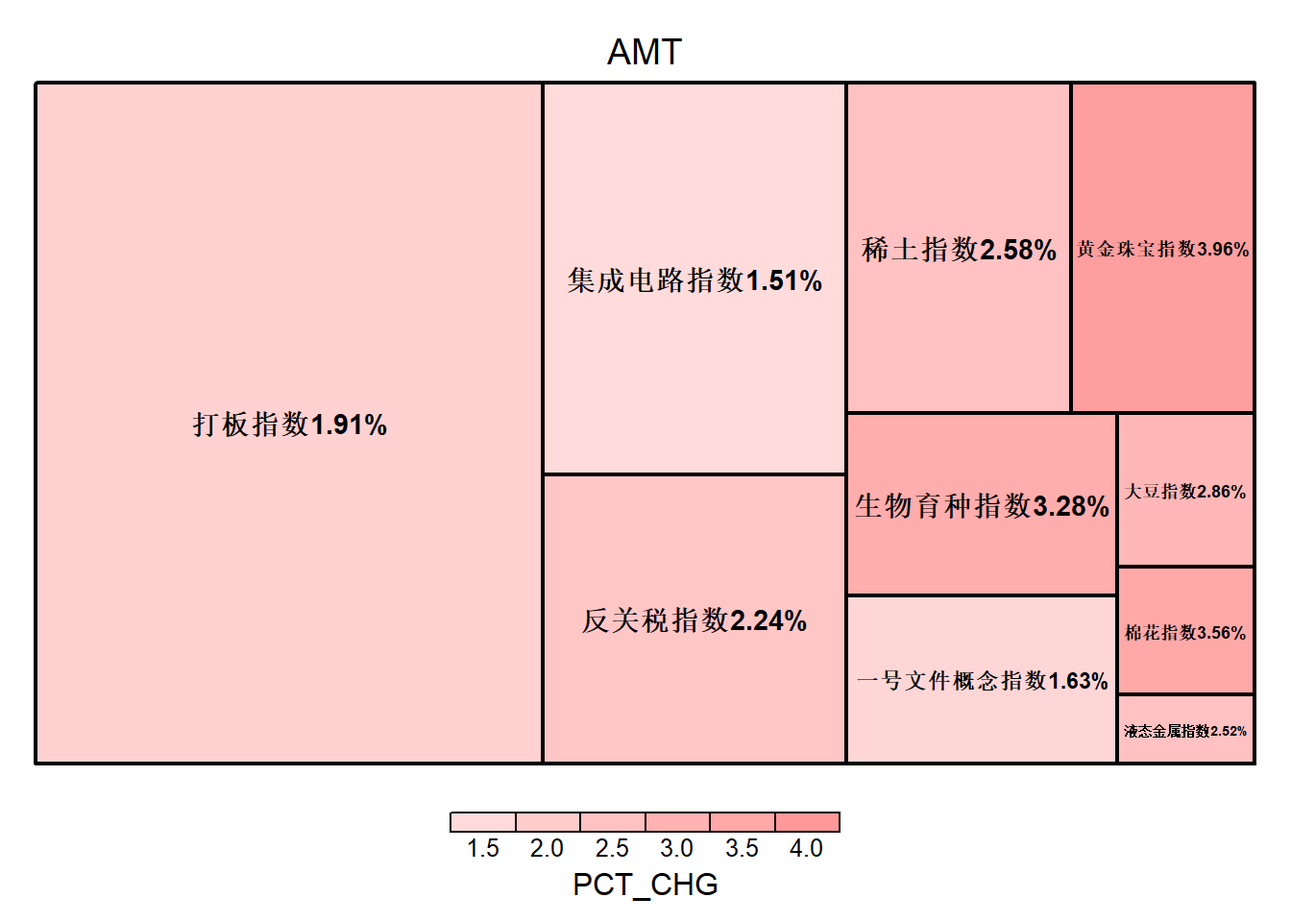
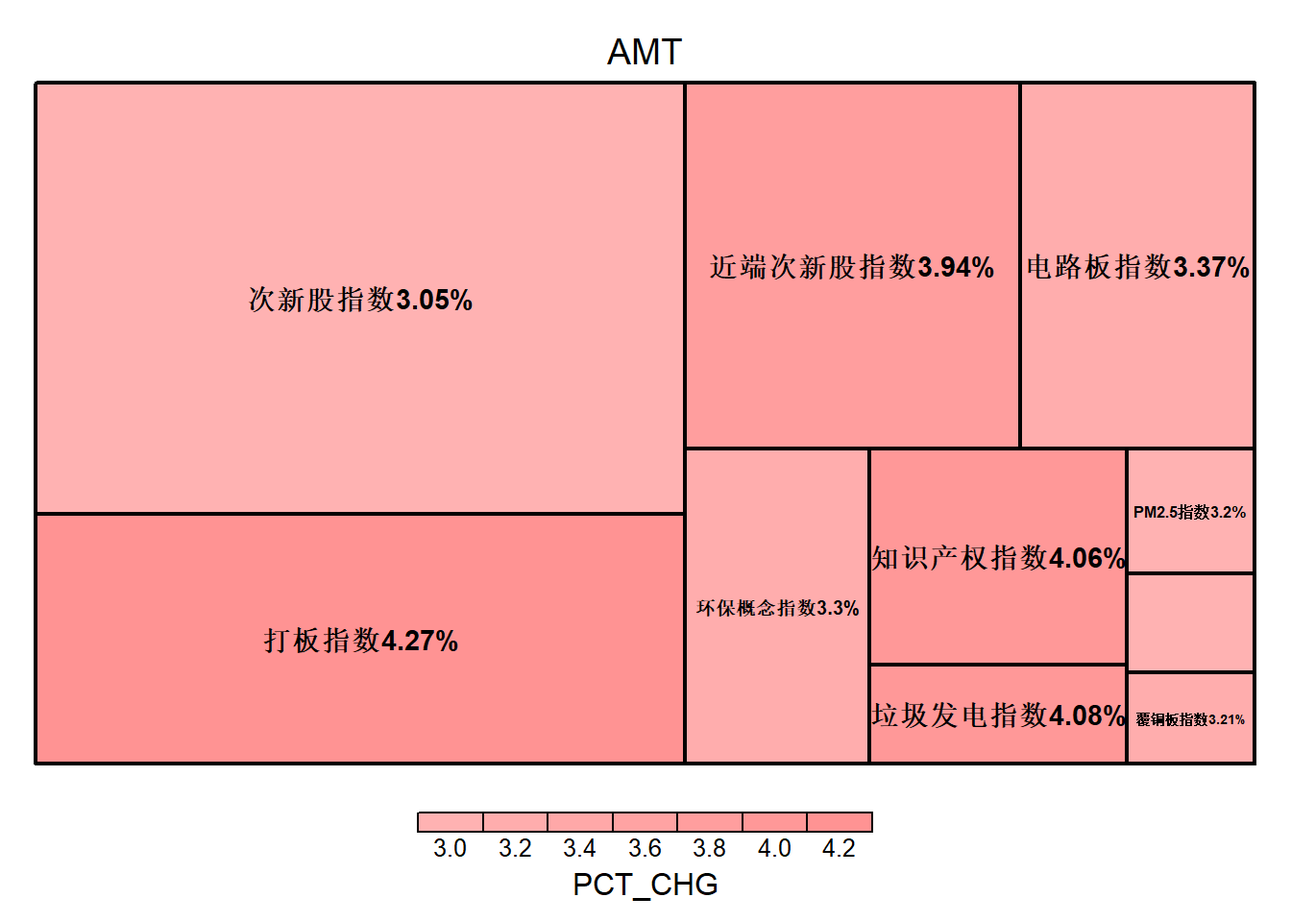
5

diff --git a/market_ashare_files/figure-html/widgets/widget_unnamed-chunk-7.html b/market_ashare_files/figure-html/widgets/widget_unnamed-chunk-7.html
@@ -49,12 +49,12 @@
 </head>
 <body style="background-color:white;">
 <div id="htmlwidget_container">
-  <div id="htmlwidget-326e6cdfa078d3f513f1" style="width:100%;height:650px;" class="highchart html-widget"></div>
+  <div id="htmlwidget-c4e797ac4c6777d631b6" style="width:100%;height:650px;" class="highchart html-widget"></div>
   <script>HTMLWidgets.pymChild = new pym.Child();HTMLWidgets.addPostRenderHandler(function(){
                                 setTimeout(function(){HTMLWidgets.pymChild.sendHeight();},100);
                             });</script>
 </div>
-<script type="application/json" data-for="htmlwidget-326e6cdfa078d3f513f1">{"x":{"hc_opts":{"title":{"text":"行业涨跌幅"},"yAxis":{"title":{"text":null}},"credits":{"enabled":true,"text":"Smartashare.com","href":"http://www.smartashare.com"},"exporting":{"enabled":true},"plotOptions":{"series":{"label":{"enabled":false},"turboThreshold":0},"treemap":{"layoutAlgorithm":"squarified"}},"xAxis":{"categories":["有色金属(中信)","餐饮旅游(中信)","通信(中信)","银行(中信)","建材(中信)","建筑(中信)","农林牧渔(中信)","机械(中信)","煤炭(中信)","电力及公用事业(中信)","医药(中信)","电子元器件(中信)","国防军工(中信)","石油石化(中信)","钢铁(中信)","商贸零售(中信)","交通运输(中信)","房地产(中信)","传媒(中信)","纺织服装(中信)","综合(中信)","计算机(中信)","汽车(中信)","食品饮料(中信)","家电(中信)","基础化工(中信)","电力设备(中信)","非银行金融(中信)","轻工制造(中信)"]},"subtitle":{"text":"更新日期:2019-06-12"},"series":[{"group":"group","data":[{"行业板块":"CI005003.WI","板块名称":"有色金属(中信)","成交额(亿元)":508.91,"成交量(亿)":52.74,"涨跌幅":1.65,"PE_TTM":128.92,"PB_LF":2.17,"y":1.65},{"行业板块":"CI005015.WI","板块名称":"餐饮旅游(中信)","成交额(亿元)":15.22,"成交量(亿)":1.13,"涨跌幅":-0.02,"PE_TTM":29.95,"PB_LF":3.46,"y":-0.02},{"行业板块":"CI005026.WI","板块名称":"通信(中信)","成交额(亿元)":432.19,"成交量(亿)":35.82,"涨跌幅":-0.05,"PE_TTM":53.48,"PB_LF":2.85,"y":-0.05},{"行业板块":"CI005021.WI","板块名称":"银行(中信)","成交额(亿元)":107.97,"成交量(亿)":14.22,"涨跌幅":-0.13,"PE_TTM":6.87,"PB_LF":0.86,"y":-0.13},{"行业板块":"CI005008.WI","板块名称":"建材(中信)","成交额(亿元)":134,"成交量(亿)":13.11,"涨跌幅":-0.15,"PE_TTM":12.14,"PB_LF":2.1,"y":-0.15},{"行业板块":"CI005007.WI","板块名称":"建筑(中信)","成交额(亿元)":131.93,"成交量(亿)":17.42,"涨跌幅":-0.19,"PE_TTM":10.98,"PB_LF":1.21,"y":-0.19},{"行业板块":"CI005020.WI","板块名称":"农林牧渔(中信)","成交额(亿元)":284.18,"成交量(亿)":29.32,"涨跌幅":-0.35,"PE_TTM":170.89,"PB_LF":3.86,"y":-0.35},{"行业板块":"CI005010.WI","板块名称":"机械(中信)","成交额(亿元)":233.58,"成交量(亿)":28.08,"涨跌幅":-0.39,"PE_TTM":70.76,"PB_LF":2.15,"y":-0.39},{"行业板块":"CI005002.WI","板块名称":"煤炭(中信)","成交额(亿元)":47.05,"成交量(亿)":7.22,"涨跌幅":-0.41,"PE_TTM":9.81,"PB_LF":1.1,"y":-0.41},{"行业板块":"CI005004.WI","板块名称":"电力及公用事业(中信)","成交额(亿元)":111.21,"成交量(亿)":18.5,"涨跌幅":-0.42,"PE_TTM":23.69,"PB_LF":1.61,"y":-0.42},{"行业板块":"CI005018.WI","板块名称":"医药(中信)","成交额(亿元)":220.77,"成交量(亿)":19.9,"涨跌幅":-0.49,"PE_TTM":33.89,"PB_LF":3.43,"y":-0.49},{"行业板块":"CI005025.WI","板块名称":"电子元器件(中信)","成交额(亿元)":579.8,"成交量(亿)":55.25,"涨跌幅":-0.5,"PE_TTM":52.05,"PB_LF":2.9,"y":-0.5},{"行业板块":"CI005012.WI","板块名称":"国防军工(中信)","成交额(亿元)":66.52,"成交量(亿)":5.32,"涨跌幅":-0.52,"PE_TTM":56.78,"PB_LF":2.41,"y":-0.52},{"行业板块":"CI005001.WI","板块名称":"石油石化(中信)","成交额(亿元)":49.56,"成交量(亿)":7.15,"涨跌幅":-0.58,"PE_TTM":19.07,"PB_LF":1.14,"y":-0.58},{"行业板块":"CI005005.WI","板块名称":"钢铁(中信)","成交额(亿元)":88.02,"成交量(亿)":22.14,"涨跌幅":-0.66,"PE_TTM":8.23,"PB_LF":1.08,"y":-0.66},{"行业板块":"CI005014.WI","板块名称":"商贸零售(中信)","成交额(亿元)":53.02,"成交量(亿)":7.41,"涨跌幅":-0.71,"PE_TTM":21.45,"PB_LF":1.49,"y":-0.71},{"行业板块":"CI005024.WI","板块名称":"交通运输(中信)","成交额(亿元)":82.36,"成交量(亿)":13.76,"涨跌幅":-0.74,"PE_TTM":19.65,"PB_LF":1.59,"y":-0.74},{"行业板块":"CI005023.WI","板块名称":"房地产(中信)","成交额(亿元)":149.39,"成交量(亿)":19.51,"涨跌幅":-0.75,"PE_TTM":11.29,"PB_LF":1.5,"y":-0.75},{"行业板块":"CI005028.WI","板块名称":"传媒(中信)","成交额(亿元)":162.09,"成交量(亿)":19.43,"涨跌幅":-0.78,"PE_TTM":null,"PB_LF":2.18,"y":-0.78},{"行业板块":"CI005017.WI","板块名称":"纺织服装(中信)","成交额(亿元)":32.34,"成交量(亿)":5.42,"涨跌幅":-0.81,"PE_TTM":32.81,"PB_LF":1.93,"y":-0.81},{"行业板块":"CI005029.WI","板块名称":"综合(中信)","成交额(亿元)":38.52,"成交量(亿)":7.04,"涨跌幅":-0.83,"PE_TTM":null,"PB_LF":1.56,"y":-0.83},{"行业板块":"CI005027.WI","板块名称":"计算机(中信)","成交额(亿元)":325.6,"成交量(亿)":24.11,"涨跌幅":-0.89,"PE_TTM":101.78,"PB_LF":3.63,"y":-0.89},{"行业板块":"CI005013.WI","板块名称":"汽车(中信)","成交额(亿元)":143.39,"成交量(亿)":15.15,"涨跌幅":-0.9,"PE_TTM":22.17,"PB_LF":1.75,"y":-0.9},{"行业板块":"CI005019.WI","板块名称":"食品饮料(中信)","成交额(亿元)":227.28,"成交量(亿)":11.75,"涨跌幅":-1.02,"PE_TTM":30.43,"PB_LF":5.82,"y":-1.02},{"行业板块":"CI005016.WI","板块名称":"家电(中信)","成交额(亿元)":75.18,"成交量(亿)":6.04,"涨跌幅":-1.03,"PE_TTM":21.02,"PB_LF":3.14,"y":-1.03},{"行业板块":"CI005006.WI","板块名称":"基础化工(中信)","成交额(亿元)":293.53,"成交量(亿)":30,"涨跌幅":-1.14,"PE_TTM":21.62,"PB_LF":2.07,"y":-1.14},{"行业板块":"CI005011.WI","板块名称":"电力设备(中信)","成交额(亿元)":138.31,"成交量(亿)":16.14,"涨跌幅":-1.2,"PE_TTM":38.21,"PB_LF":2.04,"y":-1.2},{"行业板块":"CI005022.WI","板块名称":"非银行金融(中信)","成交额(亿元)":293.07,"成交量(亿)":23.66,"涨跌幅":-1.24,"PE_TTM":20.3,"PB_LF":1.9,"y":-1.24},{"行业板块":"CI005009.WI","板块名称":"轻工制造(中信)","成交额(亿元)":67.65,"成交量(亿)":7.81,"涨跌幅":-1.27,"PE_TTM":24.77,"PB_LF":2.51,"y":-1.27}],"type":"bar","name":"涨跌幅","showInLegend":false,"dataLabels":{"enabled":true,"format":"{point.y}%"}}],"tooltip":{"enabled":true,"valueDecimals":2}},"theme":{"colors":["#d35400","#2980b9","#2ecc71","#f1c40f","#2c3e50","#7f8c8d"],"chart":{"style":{"fontFamily":"Cardo"}},"xAxis":{"lineWidth":1,"minorGridLineWidth":0,"tickColor":"#737373"},"yAxis":{"lineWidth":0,"minorGridLineWidth":0,"lineColor":"transparent","tickColor":"#737373","tickWidth":1,"gridLineColor":"transparent"}},"conf_opts":{"global":{"Date":null,"VMLRadialGradientURL":"http =//code.highcharts.com/list(version)/gfx/vml-radial-gradient.png","canvasToolsURL":"http =//code.highcharts.com/list(version)/modules/canvas-tools.js","getTimezoneOffset":null,"timezoneOffset":0,"useUTC":true},"lang":{"contextButtonTitle":"Chart context menu","decimalPoint":".","downloadJPEG":"Download JPEG image","downloadPDF":"Download PDF document","downloadPNG":"Download PNG image","downloadSVG":"Download SVG vector image","drillUpText":"Back to {series.name}","invalidDate":null,"loading":"Loading...","months":["January","February","March","April","May","June","July","August","September","October","November","December"],"noData":"No data to display","numericSymbols":["k","M","G","T","P","E"],"printChart":"Print chart","resetZoom":"Reset zoom","resetZoomTitle":"Reset zoom level 1:1","shortMonths":["Jan","Feb","Mar","Apr","May","Jun","Jul","Aug","Sep","Oct","Nov","Dec"],"thousandsSep":" ","weekdays":["Sunday","Monday","Tuesday","Wednesday","Thursday","Friday","Saturday"]}},"type":"chart","fonts":"Cardo","debug":false},"evals":[],"jsHooks":[]}</script>
-<script type="application/htmlwidget-sizing" data-for="htmlwidget-326e6cdfa078d3f513f1">{"viewer":{"width":"100%","height":650,"padding":0,"fill":false},"browser":{"width":"100%","height":650,"padding":0,"fill":false}}</script>
+<script type="application/json" data-for="htmlwidget-c4e797ac4c6777d631b6">{"x":{"hc_opts":{"title":{"text":"行业涨跌幅"},"yAxis":{"title":{"text":null}},"credits":{"enabled":true,"text":"Smartashare.com","href":"http://www.smartashare.com"},"exporting":{"enabled":true},"plotOptions":{"series":{"label":{"enabled":false},"turboThreshold":0},"treemap":{"layoutAlgorithm":"squarified"}},"xAxis":{"categories":["电子元器件(中信)","餐饮旅游(中信)","非银行金融(中信)","交通运输(中信)","家电(中信)","国防军工(中信)","计算机(中信)","传媒(中信)","通信(中信)","轻工制造(中信)","电力及公用事业(中信)","电力设备(中信)","医药(中信)","机械(中信)","纺织服装(中信)","食品饮料(中信)","综合(中信)","基础化工(中信)","银行(中信)","汽车(中信)","建筑(中信)","石油石化(中信)","建材(中信)","商贸零售(中信)","钢铁(中信)","煤炭(中信)","房地产(中信)","有色金属(中信)","农林牧渔(中信)"]},"subtitle":{"text":"更新日期:2019-06-19"},"series":[{"group":"group","data":[{"行业板块":"CI005025.WI","板块名称":"电子元器件(中信)","成交额(亿元)":504.41,"成交量(亿)":48.12,"涨跌幅":2.97,"PE_TTM":51.28,"PB_LF":2.88,"y":2.97},{"行业板块":"CI005015.WI","板块名称":"餐饮旅游(中信)","成交额(亿元)":22.27,"成交量(亿)":1.47,"涨跌幅":2.67,"PE_TTM":30.76,"PB_LF":3.56,"y":2.67},{"行业板块":"CI005022.WI","板块名称":"非银行金融(中信)","成交额(亿元)":466.74,"成交量(亿)":33.12,"涨跌幅":2.41,"PE_TTM":20.4,"PB_LF":1.91,"y":2.41},{"行业板块":"CI005024.WI","板块名称":"交通运输(中信)","成交额(亿元)":116.98,"成交量(亿)":19.14,"涨跌幅":2.17,"PE_TTM":19.78,"PB_LF":1.61,"y":2.17},{"行业板块":"CI005016.WI","板块名称":"家电(中信)","成交额(亿元)":79.69,"成交量(亿)":5.51,"涨跌幅":1.91,"PE_TTM":20.78,"PB_LF":3.11,"y":1.91},{"行业板块":"CI005012.WI","板块名称":"国防军工(中信)","成交额(亿元)":74.82,"成交量(亿)":5.53,"涨跌幅":1.62,"PE_TTM":57.14,"PB_LF":2.44,"y":1.62},{"行业板块":"CI005027.WI","板块名称":"计算机(中信)","成交额(亿元)":394.1,"成交量(亿)":27.56,"涨跌幅":1.62,"PE_TTM":101.65,"PB_LF":3.61,"y":1.62},{"行业板块":"CI005028.WI","板块名称":"传媒(中信)","成交额(亿元)":204.23,"成交量(亿)":23.04,"涨跌幅":1.58,"PE_TTM":null,"PB_LF":2.2,"y":1.58},{"行业板块":"CI005026.WI","板块名称":"通信(中信)","成交额(亿元)":338.25,"成交量(亿)":26.28,"涨跌幅":1.56,"PE_TTM":52.41,"PB_LF":2.79,"y":1.56},{"行业板块":"CI005009.WI","板块名称":"轻工制造(中信)","成交额(亿元)":72.44,"成交量(亿)":8.21,"涨跌幅":1.49,"PE_TTM":24.26,"PB_LF":2.47,"y":1.49},{"行业板块":"CI005004.WI","板块名称":"电力及公用事业(中信)","成交额(亿元)":131.48,"成交量(亿)":20.41,"涨跌幅":1.48,"PE_TTM":23.58,"PB_LF":1.6,"y":1.48},{"行业板块":"CI005011.WI","板块名称":"电力设备(中信)","成交额(亿元)":136.76,"成交量(亿)":16.89,"涨跌幅":1.48,"PE_TTM":37.59,"PB_LF":2.01,"y":1.48},{"行业板块":"CI005018.WI","板块名称":"医药(中信)","成交额(亿元)":301.6,"成交量(亿)":24.51,"涨跌幅":1.43,"PE_TTM":34.41,"PB_LF":3.49,"y":1.43},{"行业板块":"CI005010.WI","板块名称":"机械(中信)","成交额(亿元)":287.75,"成交量(亿)":33.15,"涨跌幅":1.4,"PE_TTM":70.54,"PB_LF":2.16,"y":1.4},{"行业板块":"CI005017.WI","板块名称":"纺织服装(中信)","成交额(亿元)":33.46,"成交量(亿)":4.87,"涨跌幅":1.34,"PE_TTM":32.28,"PB_LF":1.91,"y":1.34},{"行业板块":"CI005019.WI","板块名称":"食品饮料(中信)","成交额(亿元)":240.21,"成交量(亿)":9.95,"涨跌幅":1.27,"PE_TTM":30.26,"PB_LF":5.8,"y":1.27},{"行业板块":"CI005029.WI","板块名称":"综合(中信)","成交额(亿元)":35,"成交量(亿)":5.99,"涨跌幅":1.23,"PE_TTM":null,"PB_LF":1.53,"y":1.23},{"行业板块":"CI005006.WI","板块名称":"基础化工(中信)","成交额(亿元)":261.43,"成交量(亿)":28.72,"涨跌幅":1.21,"PE_TTM":21.48,"PB_LF":2.05,"y":1.21},{"行业板块":"CI005021.WI","板块名称":"银行(中信)","成交额(亿元)":176.65,"成交量(亿)":23.16,"涨跌幅":1.12,"PE_TTM":6.89,"PB_LF":0.87,"y":1.12},{"行业板块":"CI005013.WI","板块名称":"汽车(中信)","成交额(亿元)":144.94,"成交量(亿)":15.24,"涨跌幅":0.99,"PE_TTM":21.84,"PB_LF":1.73,"y":0.99},{"行业板块":"CI005007.WI","板块名称":"建筑(中信)","成交额(亿元)":106.76,"成交量(亿)":15.03,"涨跌幅":0.93,"PE_TTM":10.83,"PB_LF":1.2,"y":0.93},{"行业板块":"CI005001.WI","板块名称":"石油石化(中信)","成交额(亿元)":51.19,"成交量(亿)":7.31,"涨跌幅":0.92,"PE_TTM":18.82,"PB_LF":1.13,"y":0.92},{"行业板块":"CI005008.WI","板块名称":"建材(中信)","成交额(亿元)":82.37,"成交量(亿)":8.16,"涨跌幅":0.88,"PE_TTM":11.82,"PB_LF":2.1,"y":0.88},{"行业板块":"CI005014.WI","板块名称":"商贸零售(中信)","成交额(亿元)":56.41,"成交量(亿)":8.81,"涨跌幅":0.88,"PE_TTM":21.32,"PB_LF":1.49,"y":0.88},{"行业板块":"CI005005.WI","板块名称":"钢铁(中信)","成交额(亿元)":51.77,"成交量(亿)":11.85,"涨跌幅":0.79,"PE_TTM":8.12,"PB_LF":1.07,"y":0.79},{"行业板块":"CI005002.WI","板块名称":"煤炭(中信)","成交额(亿元)":44.82,"成交量(亿)":6.46,"涨跌幅":0.69,"PE_TTM":9.94,"PB_LF":1.12,"y":0.69},{"行业板块":"CI005023.WI","板块名称":"房地产(中信)","成交额(亿元)":137.72,"成交量(亿)":18.34,"涨跌幅":0.62,"PE_TTM":11.06,"PB_LF":1.47,"y":0.62},{"行业板块":"CI005003.WI","板块名称":"有色金属(中信)","成交额(亿元)":256.81,"成交量(亿)":27.43,"涨跌幅":-0.1,"PE_TTM":128.81,"PB_LF":2.17,"y":-0.1},{"行业板块":"CI005020.WI","板块名称":"农林牧渔(中信)","成交额(亿元)":227.25,"成交量(亿)":21.49,"涨跌幅":-0.53,"PE_TTM":167.32,"PB_LF":3.78,"y":-0.53}],"type":"bar","name":"涨跌幅","showInLegend":false,"dataLabels":{"enabled":true,"format":"{point.y}%"}}],"tooltip":{"enabled":true,"valueDecimals":2}},"theme":{"colors":["#d35400","#2980b9","#2ecc71","#f1c40f","#2c3e50","#7f8c8d"],"chart":{"style":{"fontFamily":"Cardo"}},"xAxis":{"lineWidth":1,"minorGridLineWidth":0,"tickColor":"#737373"},"yAxis":{"lineWidth":0,"minorGridLineWidth":0,"lineColor":"transparent","tickColor":"#737373","tickWidth":1,"gridLineColor":"transparent"}},"conf_opts":{"global":{"Date":null,"VMLRadialGradientURL":"http =//code.highcharts.com/list(version)/gfx/vml-radial-gradient.png","canvasToolsURL":"http =//code.highcharts.com/list(version)/modules/canvas-tools.js","getTimezoneOffset":null,"timezoneOffset":0,"useUTC":true},"lang":{"contextButtonTitle":"Chart context menu","decimalPoint":".","downloadJPEG":"Download JPEG image","downloadPDF":"Download PDF document","downloadPNG":"Download PNG image","downloadSVG":"Download SVG vector image","drillUpText":"Back to {series.name}","invalidDate":null,"loading":"Loading...","months":["January","February","March","April","May","June","July","August","September","October","November","December"],"noData":"No data to display","numericSymbols":["k","M","G","T","P","E"],"printChart":"Print chart","resetZoom":"Reset zoom","resetZoomTitle":"Reset zoom level 1:1","shortMonths":["Jan","Feb","Mar","Apr","May","Jun","Jul","Aug","Sep","Oct","Nov","Dec"],"thousandsSep":" ","weekdays":["Sunday","Monday","Tuesday","Wednesday","Thursday","Friday","Saturday"]}},"type":"chart","fonts":"Cardo","debug":false},"evals":[],"jsHooks":[]}</script>
+<script type="application/htmlwidget-sizing" data-for="htmlwidget-c4e797ac4c6777d631b6">{"viewer":{"width":"100%","height":650,"padding":0,"fill":false},"browser":{"width":"100%","height":650,"padding":0,"fill":false}}</script>
 </body>
 </html>

diff --git a/market_ashare_files/figure-html/widgets/widget_unnamed-chunk-5.html b/market_ashare_files/figure-html/widgets/widget_unnamed-chunk-5.html
@@ -49,12 +49,12 @@
 </head>
 <body style="background-color:white;">
 <div id="htmlwidget_container">
-  <div id="htmlwidget-ec331b742aa16d46cec8" style="width:100%;height:350px;" class="highchart html-widget"></div>
+  <div id="htmlwidget-59a75d2671e3cea8d76f" style="width:100%;height:350px;" class="highchart html-widget"></div>
   <script>HTMLWidgets.pymChild = new pym.Child();HTMLWidgets.addPostRenderHandler(function(){
                                 setTimeout(function(){HTMLWidgets.pymChild.sendHeight();},100);
                             });</script>
 </div>
-<script type="application/json" data-for="htmlwidget-ec331b742aa16d46cec8">{"x":{"hc_opts":{"title":{"text":"风格指数涨跌幅"},"yAxis":{"title":{"text":null}},"credits":{"enabled":true,"text":"Smartashare.com","href":"http://www.smartashare.com"},"exporting":{"enabled":true},"plotOptions":{"series":{"label":{"enabled":false},"turboThreshold":0},"treemap":{"layoutAlgorithm":"squarified"}},"xAxis":{"categories":["金融","周期","消费","成长","稳定","大盘","中盘","小盘","高市盈率","中市盈率","低市盈率"]},"subtitle":{"text":"更新日期:2019-06-12"},"series":[{"group":"group","data":[{"CODE":"CI005917.WI","SEC_NAME":"金融(风格.中信)","PCT_CHG":-0.68,"coloract":"#e5e500","y":-0.68,"color":"#e5e500","name":"金融(风格.中信)"},{"CODE":"CI005918.WI","SEC_NAME":"周期(风格.中信)","PCT_CHG":-0.48,"coloract":"#e5e500","y":-0.48,"color":"#e5e500","name":"周期(风格.中信)"},{"CODE":"CI005919.WI","SEC_NAME":"消费(风格.中信)","PCT_CHG":-0.83,"coloract":"#e5e500","y":-0.83,"color":"#e5e500","name":"消费(风格.中信)"},{"CODE":"CI005920.WI","SEC_NAME":"成长(风格.中信)","PCT_CHG":-0.49,"coloract":"#e5e500","y":-0.49,"color":"#e5e500","name":"成长(风格.中信)"},{"CODE":"CI005921.WI","SEC_NAME":"稳定(风格.中信)","PCT_CHG":-0.46,"coloract":"#e5e500","y":-0.46,"color":"#e5e500","name":"稳定(风格.中信)"},{"CODE":"801811.SI","SEC_NAME":"大盘指数(申万)","PCT_CHG":-0.68,"coloract":"#0080ff","y":-0.68,"color":"#0080ff","name":"大盘指数(申万)"},{"CODE":"801812.SI","SEC_NAME":"中盘指数(申万)","PCT_CHG":-0.95,"coloract":"#0080ff","y":-0.95,"color":"#0080ff","name":"中盘指数(申万)"},{"CODE":"801813.SI","SEC_NAME":"小盘指数(申万)","PCT_CHG":-0.58,"coloract":"#0080ff","y":-0.58,"color":"#0080ff","name":"小盘指数(申万)"},{"CODE":"801821.SI","SEC_NAME":"高市盈率指数(申万)","PCT_CHG":-0.51,"coloract":"#b2b2ff","y":-0.51,"color":"#b2b2ff","name":"高市盈率指数(申万)"},{"CODE":"801822.SI","SEC_NAME":"中市盈率指数(申万)","PCT_CHG":-0.6,"coloract":"#b2b2ff","y":-0.6,"color":"#b2b2ff","name":"中市盈率指数(申万)"},{"CODE":"801823.SI","SEC_NAME":"低市盈率指数(申万)","PCT_CHG":-0.52,"coloract":"#b2b2ff","y":-0.52,"color":"#b2b2ff","name":"低市盈率指数(申万)"}],"type":"column","name":"涨跌幅","showInLegend":false,"dataLabels":{"enabled":true,"format":"{point.y}%"}}],"tooltip":{"enabled":true,"valueDecimals":2}},"theme":{"colors":["#d35400","#2980b9","#2ecc71","#f1c40f","#2c3e50","#7f8c8d"],"chart":{"style":{"fontFamily":"Cardo"}},"xAxis":{"lineWidth":1,"minorGridLineWidth":0,"tickColor":"#737373"},"yAxis":{"lineWidth":0,"minorGridLineWidth":0,"lineColor":"transparent","tickColor":"#737373","tickWidth":1,"gridLineColor":"transparent"}},"conf_opts":{"global":{"Date":null,"VMLRadialGradientURL":"http =//code.highcharts.com/list(version)/gfx/vml-radial-gradient.png","canvasToolsURL":"http =//code.highcharts.com/list(version)/modules/canvas-tools.js","getTimezoneOffset":null,"timezoneOffset":0,"useUTC":true},"lang":{"contextButtonTitle":"Chart context menu","decimalPoint":".","downloadJPEG":"Download JPEG image","downloadPDF":"Download PDF document","downloadPNG":"Download PNG image","downloadSVG":"Download SVG vector image","drillUpText":"Back to {series.name}","invalidDate":null,"loading":"Loading...","months":["January","February","March","April","May","June","July","August","September","October","November","December"],"noData":"No data to display","numericSymbols":["k","M","G","T","P","E"],"printChart":"Print chart","resetZoom":"Reset zoom","resetZoomTitle":"Reset zoom level 1:1","shortMonths":["Jan","Feb","Mar","Apr","May","Jun","Jul","Aug","Sep","Oct","Nov","Dec"],"thousandsSep":" ","weekdays":["Sunday","Monday","Tuesday","Wednesday","Thursday","Friday","Saturday"]}},"type":"chart","fonts":"Cardo","debug":false},"evals":[],"jsHooks":[]}</script>
-<script type="application/htmlwidget-sizing" data-for="htmlwidget-ec331b742aa16d46cec8">{"viewer":{"width":"100%","height":350,"padding":0,"fill":false},"browser":{"width":"100%","height":350,"padding":0,"fill":false}}</script>
+<script type="application/json" data-for="htmlwidget-59a75d2671e3cea8d76f">{"x":{"hc_opts":{"title":{"text":"风格指数涨跌幅"},"yAxis":{"title":{"text":null}},"credits":{"enabled":true,"text":"Smartashare.com","href":"http://www.smartashare.com"},"exporting":{"enabled":true},"plotOptions":{"series":{"label":{"enabled":false},"turboThreshold":0},"treemap":{"layoutAlgorithm":"squarified"}},"xAxis":{"categories":["金融","周期","消费","成长","稳定","大盘","中盘","小盘","高市盈率","中市盈率","低市盈率"]},"subtitle":{"text":"更新日期:2019-06-19"},"series":[{"group":"group","data":[{"CODE":"CI005917.WI","SEC_NAME":"金融(风格.中信)","PCT_CHG":1.53,"coloract":"#e5e500","y":1.53,"color":"#e5e500","name":"金融(风格.中信)"},{"CODE":"CI005918.WI","SEC_NAME":"周期(风格.中信)","PCT_CHG":1.15,"coloract":"#e5e500","y":1.15,"color":"#e5e500","name":"周期(风格.中信)"},{"CODE":"CI005919.WI","SEC_NAME":"消费(风格.中信)","PCT_CHG":1.21,"coloract":"#e5e500","y":1.21,"color":"#e5e500","name":"消费(风格.中信)"},{"CODE":"CI005920.WI","SEC_NAME":"成长(风格.中信)","PCT_CHG":1.83,"coloract":"#e5e500","y":1.83,"color":"#e5e500","name":"成长(风格.中信)"},{"CODE":"CI005921.WI","SEC_NAME":"稳定(风格.中信)","PCT_CHG":1.14,"coloract":"#e5e500","y":1.14,"color":"#e5e500","name":"稳定(风格.中信)"},{"CODE":"801811.SI","SEC_NAME":"大盘指数(申万)","PCT_CHG":1.33,"coloract":"#0080ff","y":1.33,"color":"#0080ff","name":"大盘指数(申万)"},{"CODE":"801812.SI","SEC_NAME":"中盘指数(申万)","PCT_CHG":1.27,"coloract":"#0080ff","y":1.27,"color":"#0080ff","name":"中盘指数(申万)"},{"CODE":"801813.SI","SEC_NAME":"小盘指数(申万)","PCT_CHG":1.34,"coloract":"#0080ff","y":1.34,"color":"#0080ff","name":"小盘指数(申万)"},{"CODE":"801821.SI","SEC_NAME":"高市盈率指数(申万)","PCT_CHG":1.72,"coloract":"#b2b2ff","y":1.72,"color":"#b2b2ff","name":"高市盈率指数(申万)"},{"CODE":"801822.SI","SEC_NAME":"中市盈率指数(申万)","PCT_CHG":1.82,"coloract":"#b2b2ff","y":1.82,"color":"#b2b2ff","name":"中市盈率指数(申万)"},{"CODE":"801823.SI","SEC_NAME":"低市盈率指数(申万)","PCT_CHG":0.67,"coloract":"#b2b2ff","y":0.67,"color":"#b2b2ff","name":"低市盈率指数(申万)"}],"type":"column","name":"涨跌幅","showInLegend":false,"dataLabels":{"enabled":true,"format":"{point.y}%"}}],"tooltip":{"enabled":true,"valueDecimals":2}},"theme":{"colors":["#d35400","#2980b9","#2ecc71","#f1c40f","#2c3e50","#7f8c8d"],"chart":{"style":{"fontFamily":"Cardo"}},"xAxis":{"lineWidth":1,"minorGridLineWidth":0,"tickColor":"#737373"},"yAxis":{"lineWidth":0,"minorGridLineWidth":0,"lineColor":"transparent","tickColor":"#737373","tickWidth":1,"gridLineColor":"transparent"}},"conf_opts":{"global":{"Date":null,"VMLRadialGradientURL":"http =//code.highcharts.com/list(version)/gfx/vml-radial-gradient.png","canvasToolsURL":"http =//code.highcharts.com/list(version)/modules/canvas-tools.js","getTimezoneOffset":null,"timezoneOffset":0,"useUTC":true},"lang":{"contextButtonTitle":"Chart context menu","decimalPoint":".","downloadJPEG":"Download JPEG image","downloadPDF":"Download PDF document","downloadPNG":"Download PNG image","downloadSVG":"Download SVG vector image","drillUpText":"Back to {series.name}","invalidDate":null,"loading":"Loading...","months":["January","February","March","April","May","June","July","August","September","October","November","December"],"noData":"No data to display","numericSymbols":["k","M","G","T","P","E"],"printChart":"Print chart","resetZoom":"Reset zoom","resetZoomTitle":"Reset zoom level 1:1","shortMonths":["Jan","Feb","Mar","Apr","May","Jun","Jul","Aug","Sep","Oct","Nov","Dec"],"thousandsSep":" ","weekdays":["Sunday","Monday","Tuesday","Wednesday","Thursday","Friday","Saturday"]}},"type":"chart","fonts":"Cardo","debug":false},"evals":[],"jsHooks":[]}</script>
+<script type="application/htmlwidget-sizing" data-for="htmlwidget-59a75d2671e3cea8d76f">{"viewer":{"width":"100%","height":350,"padding":0,"fill":false},"browser":{"width":"100%","height":350,"padding":0,"fill":false}}</script>
 </body>
 </html>

diff --git a/market_ashare_files/figure-html/widgets/widget_unnamed-chunk-4.html b/market_ashare_files/figure-html/widgets/widget_unnamed-chunk-4.html
@@ -49,12 +49,12 @@
 </head>
 <body style="background-color:white;">
 <div id="htmlwidget_container">
-  <div id="htmlwidget-cbe16295f60ba95be562" style="width:100%;height:350px;" class="highchart html-widget"></div>
+  <div id="htmlwidget-037673f07d67efe1f3f3" style="width:100%;height:350px;" class="highchart html-widget"></div>
   <script>HTMLWidgets.pymChild = new pym.Child();HTMLWidgets.addPostRenderHandler(function(){
                                 setTimeout(function(){HTMLWidgets.pymChild.sendHeight();},100);
                             });</script>
 </div>
-<script type="application/json" data-for="htmlwidget-cbe16295f60ba95be562">{"x":{"hc_opts":{"title":{"text":"主要指数涨跌幅"},"yAxis":{"title":{"text":null}},"credits":{"enabled":true,"text":"Smartashare.com","href":"http://www.smartashare.com"},"exporting":{"enabled":true},"plotOptions":{"series":{"label":{"enabled":false},"turboThreshold":0},"treemap":{"layoutAlgorithm":"squarified"}},"xAxis":{"categories":["上证综指","深证成指","中证500","沪深300","上证50","创业板指"]},"subtitle":{"text":"更新日期:2019-06-12"},"series":[{"group":"group","data":[{"指数代码":"000001.SH","指数名称":"上证综指","成交额(亿元)":2230.64,"成交量(亿)":240.26,"日涨跌幅":-0.56,"PE_TTM":13.09,"PB_LF":1.4,"y":-0.56},{"指数代码":"399001.SZ","指数名称":"深证成指","成交额(亿元)":2903.34,"成交量(亿)":295.74,"日涨跌幅":-0.92,"PE_TTM":23.69,"PB_LF":2.4,"y":-0.92},{"指数代码":"000905.SH","指数名称":"中证500","成交额(亿元)":946.85,"成交量(亿)":107.85,"日涨跌幅":-0.77,"PE_TTM":26.25,"PB_LF":1.81,"y":-0.77},{"指数代码":"000300.SH","指数名称":"沪深300","成交额(亿元)":1322.96,"成交量(亿)":119.18,"日涨跌幅":-0.76,"PE_TTM":11.99,"PB_LF":1.41,"y":-0.76},{"指数代码":"000016.SH","指数名称":"上证50","成交额(亿元)":366.55,"成交量(亿)":26.45,"日涨跌幅":-0.57,"PE_TTM":9.64,"PB_LF":1.17,"y":-0.57},{"指数代码":"399006.SZ","指数名称":"创业板指","成交额(亿元)":895.11,"成交量(亿)":75.92,"日涨跌幅":-0.9,"PE_TTM":53.33,"PB_LF":4.1,"y":-0.9}],"type":"bar","name":"日涨跌幅","showInLegend":false,"dataLabels":{"enabled":true,"format":"{point.y}%"}}],"tooltip":{"enabled":true,"valueDecimals":2}},"theme":{"colors":["#d35400","#2980b9","#2ecc71","#f1c40f","#2c3e50","#7f8c8d"],"chart":{"style":{"fontFamily":"Cardo"}},"xAxis":{"lineWidth":1,"minorGridLineWidth":0,"tickColor":"#737373"},"yAxis":{"lineWidth":0,"minorGridLineWidth":0,"lineColor":"transparent","tickColor":"#737373","tickWidth":1,"gridLineColor":"transparent"}},"conf_opts":{"global":{"Date":null,"VMLRadialGradientURL":"http =//code.highcharts.com/list(version)/gfx/vml-radial-gradient.png","canvasToolsURL":"http =//code.highcharts.com/list(version)/modules/canvas-tools.js","getTimezoneOffset":null,"timezoneOffset":0,"useUTC":true},"lang":{"contextButtonTitle":"Chart context menu","decimalPoint":".","downloadJPEG":"Download JPEG image","downloadPDF":"Download PDF document","downloadPNG":"Download PNG image","downloadSVG":"Download SVG vector image","drillUpText":"Back to {series.name}","invalidDate":null,"loading":"Loading...","months":["January","February","March","April","May","June","July","August","September","October","November","December"],"noData":"No data to display","numericSymbols":["k","M","G","T","P","E"],"printChart":"Print chart","resetZoom":"Reset zoom","resetZoomTitle":"Reset zoom level 1:1","shortMonths":["Jan","Feb","Mar","Apr","May","Jun","Jul","Aug","Sep","Oct","Nov","Dec"],"thousandsSep":" ","weekdays":["Sunday","Monday","Tuesday","Wednesday","Thursday","Friday","Saturday"]}},"type":"chart","fonts":"Cardo","debug":false},"evals":[],"jsHooks":[]}</script>
-<script type="application/htmlwidget-sizing" data-for="htmlwidget-cbe16295f60ba95be562">{"viewer":{"width":"100%","height":350,"padding":0,"fill":false},"browser":{"width":"100%","height":350,"padding":0,"fill":false}}</script>
+<script type="application/json" data-for="htmlwidget-037673f07d67efe1f3f3">{"x":{"hc_opts":{"title":{"text":"主要指数涨跌幅"},"yAxis":{"title":{"text":null}},"credits":{"enabled":true,"text":"Smartashare.com","href":"http://www.smartashare.com"},"exporting":{"enabled":true},"plotOptions":{"series":{"label":{"enabled":false},"turboThreshold":0},"treemap":{"layoutAlgorithm":"squarified"}},"xAxis":{"categories":["上证综指","深证成指","中证500","沪深300","上证50","创业板指"]},"subtitle":{"text":"更新日期:2019-06-19"},"series":[{"group":"group","data":[{"指数代码":"000001.SH","指数名称":"上证综指","成交额(亿元)":2255.67,"成交量(亿)":230.76,"日涨跌幅":0.96,"PE_TTM":13.08,"PB_LF":1.4,"y":0.96},{"指数代码":"399001.SZ","指数名称":"深证成指","成交额(亿元)":2784.47,"成交量(亿)":275.31,"日涨跌幅":1.38,"PE_TTM":22.2,"PB_LF":2.38,"y":1.38},{"指数代码":"000905.SH","指数名称":"中证500","成交额(亿元)":882.47,"成交量(亿)":98.27,"日涨跌幅":1.29,"PE_TTM":22.9,"PB_LF":1.79,"y":1.29},{"指数代码":"000300.SH","指数名称":"沪深300","成交额(亿元)":1725.74,"成交量(亿)":125.6,"日涨跌幅":1.32,"PE_TTM":12.14,"PB_LF":1.45,"y":1.32},{"指数代码":"000016.SH","指数名称":"上证50","成交额(亿元)":617.01,"成交量(亿)":41.16,"日涨跌幅":1.29,"PE_TTM":9.92,"PB_LF":1.21,"y":1.29},{"指数代码":"399006.SZ","指数名称":"创业板指","成交额(亿元)":911.77,"成交量(亿)":77.99,"日涨跌幅":0.98,"PE_TTM":47.17,"PB_LF":4.28,"y":0.98}],"type":"bar","name":"日涨跌幅","showInLegend":false,"dataLabels":{"enabled":true,"format":"{point.y}%"}}],"tooltip":{"enabled":true,"valueDecimals":2}},"theme":{"colors":["#d35400","#2980b9","#2ecc71","#f1c40f","#2c3e50","#7f8c8d"],"chart":{"style":{"fontFamily":"Cardo"}},"xAxis":{"lineWidth":1,"minorGridLineWidth":0,"tickColor":"#737373"},"yAxis":{"lineWidth":0,"minorGridLineWidth":0,"lineColor":"transparent","tickColor":"#737373","tickWidth":1,"gridLineColor":"transparent"}},"conf_opts":{"global":{"Date":null,"VMLRadialGradientURL":"http =//code.highcharts.com/list(version)/gfx/vml-radial-gradient.png","canvasToolsURL":"http =//code.highcharts.com/list(version)/modules/canvas-tools.js","getTimezoneOffset":null,"timezoneOffset":0,"useUTC":true},"lang":{"contextButtonTitle":"Chart context menu","decimalPoint":".","downloadJPEG":"Download JPEG image","downloadPDF":"Download PDF document","downloadPNG":"Download PNG image","downloadSVG":"Download SVG vector image","drillUpText":"Back to {series.name}","invalidDate":null,"loading":"Loading...","months":["January","February","March","April","May","June","July","August","September","October","November","December"],"noData":"No data to display","numericSymbols":["k","M","G","T","P","E"],"printChart":"Print chart","resetZoom":"Reset zoom","resetZoomTitle":"Reset zoom level 1:1","shortMonths":["Jan","Feb","Mar","Apr","May","Jun","Jul","Aug","Sep","Oct","Nov","Dec"],"thousandsSep":" ","weekdays":["Sunday","Monday","Tuesday","Wednesday","Thursday","Friday","Saturday"]}},"type":"chart","fonts":"Cardo","debug":false},"evals":[],"jsHooks":[]}</script>
+<script type="application/htmlwidget-sizing" data-for="htmlwidget-037673f07d67efe1f3f3">{"viewer":{"width":"100%","height":350,"padding":0,"fill":false},"browser":{"width":"100%","height":350,"padding":0,"fill":false}}</script>
 </body>
 </html>

diff --git a/market_ashare_files/figure-html/widgets/widget_unnamed-chunk-11.html b/market_ashare_files/figure-html/widgets/widget_unnamed-chunk-11.html
@@ -49,12 +49,12 @@
 </head>
 <body style="background-color:white;">
 <div id="htmlwidget_container">
-  <div id="htmlwidget-1ee03965afd879a04227" style="width:100%;height:500px;" class="highchart html-widget"></div>
+  <div id="htmlwidget-bd092ddae7835459c307" style="width:100%;height:500px;" class="highchart html-widget"></div>
   <script>HTMLWidgets.pymChild = new pym.Child();HTMLWidgets.addPostRenderHandler(function(){
                                 setTimeout(function(){HTMLWidgets.pymChild.sendHeight();},100);
                             });</script>
 </div>
-<script type="application/json" data-for="htmlwidget-1ee03965afd879a04227">{"x":{"hc_opts":{"title":{"text":"2019-06-12跌幅前10概念板块"},"yAxis":{"title":{"text":null}},"credits":{"enabled":true,"text":"Smartashare.com","href":"http://www.smartashare.com"},"exporting":{"enabled":true},"plotOptions":{"series":{"label":{"enabled":false},"turboThreshold":0},"treemap":{"layoutAlgorithm":"squarified"}},"series":[{"data":[{"name":"触板指数-2%","value":8996322936,"valuecolor":-1.99561169061909,"level":1,"color":"#CCFFCC","id":"触板指数-2%"},{"name":"工业大麻指数-2.06%","value":6219170826,"valuecolor":-2.06144452793702,"level":1,"color":"#C6FFC6","id":"工业大麻指数-2.06%"},{"name":"黄酒指数-1.61%","value":127791615,"valuecolor":-1.60698940403466,"level":1,"color":"#D1FFD1","id":"黄酒指数-1.61%"},{"name":"鸡产业指数-1.75%","value":2903773756,"valuecolor":-1.75221316294486,"level":1,"color":"#D1FFD1","id":"鸡产业指数-1.75%"},{"name":"近端次新股指数-1.67%","value":12044603857,"valuecolor":-1.66549249251941,"level":1,"color":"#D1FFD1","id":"近端次新股指数-1.67%"},{"name":"陆股通周增仓前二十指数-1.93%","value":10397601569,"valuecolor":-1.9334618231897,"level":1,"color":"#CCFFCC","id":"陆股通周增仓前二十指数-1.93%"},{"name":"染料指数-2.5%","value":6053180143,"valuecolor":-2.49758640273621,"level":1,"color":"#BCFFBC","id":"染料指数-2.5%"},{"name":"无线充电指数-1.49%","value":8441886727,"valuecolor":-1.49468000854934,"level":1,"color":"#D6FFD6","id":"无线充电指数-1.49%"},{"name":"中国国际进口博览会指数-1.54%","value":480567678,"valuecolor":-1.54016030649974,"level":1,"color":"#D6FFD6","id":"中国国际进口博览会指数-1.54%"},{"name":"猪产业指数-1.54%","value":8235863412,"valuecolor":-1.54120053049546,"level":1,"color":"#D6FFD6","id":"猪产业指数-1.54%"}],"type":"treemap"}],"subtitle":{"text":"方块大小代表成交额"},"tooltip":{"enabled":true,"valueDecimals":2}},"theme":{"chart":{"backgroundColor":"transparent"}},"conf_opts":{"global":{"Date":null,"VMLRadialGradientURL":"http =//code.highcharts.com/list(version)/gfx/vml-radial-gradient.png","canvasToolsURL":"http =//code.highcharts.com/list(version)/modules/canvas-tools.js","getTimezoneOffset":null,"timezoneOffset":0,"useUTC":true},"lang":{"contextButtonTitle":"Chart context menu","decimalPoint":".","downloadJPEG":"Download JPEG image","downloadPDF":"Download PDF document","downloadPNG":"Download PNG image","downloadSVG":"Download SVG vector image","drillUpText":"Back to {series.name}","invalidDate":null,"loading":"Loading...","months":["January","February","March","April","May","June","July","August","September","October","November","December"],"noData":"No data to display","numericSymbols":["k","M","G","T","P","E"],"printChart":"Print chart","resetZoom":"Reset zoom","resetZoomTitle":"Reset zoom level 1:1","shortMonths":["Jan","Feb","Mar","Apr","May","Jun","Jul","Aug","Sep","Oct","Nov","Dec"],"thousandsSep":" ","weekdays":["Sunday","Monday","Tuesday","Wednesday","Thursday","Friday","Saturday"]}},"type":"chart","fonts":[],"debug":false},"evals":[],"jsHooks":[]}</script>
-<script type="application/htmlwidget-sizing" data-for="htmlwidget-1ee03965afd879a04227">{"viewer":{"width":"100%","height":350,"padding":0,"fill":false},"browser":{"width":"100%","height":500,"padding":0,"fill":false}}</script>
+<script type="application/json" data-for="htmlwidget-bd092ddae7835459c307">{"x":{"hc_opts":{"title":{"text":"2019-06-19跌幅前10概念板块"},"yAxis":{"title":{"text":null}},"credits":{"enabled":true,"text":"Smartashare.com","href":"http://www.smartashare.com"},"exporting":{"enabled":true},"plotOptions":{"series":{"label":{"enabled":false},"turboThreshold":0},"treemap":{"layoutAlgorithm":"squarified"}},"series":[{"data":[{"name":"ST概念指数-0.05%","value":3402829880,"valuecolor":-0.0512544576531653,"level":1,"color":"#F9FFF9","id":"st概念指数-0.05%"},{"name":"低价股指数-2.39%","value":581562212,"valuecolor":-2.38667618352108,"level":1,"color":"#C1FFC1","id":"低价股指数-2.39%"},{"name":"低价小市值指数0.16%","value":2855894459,"valuecolor":0.160981564594073,"level":1,"color":"#FFFFFF","id":"低价小市值指数0.16%"},{"name":"钒钛指数0.02%","value":900247811,"valuecolor":0.0202574261630457,"level":1,"color":"#FFFFFF","id":"钒钛指数0.02%"},{"name":"黄金珠宝指数-1.12%","value":8267056173,"valuecolor":-1.12107968541911,"level":1,"color":"#E0FFE0","id":"黄金珠宝指数-1.12%"},{"name":"鸡产业指数-0.29%","value":2610668837,"valuecolor":-0.293922586013245,"level":1,"color":"#F4FFF4","id":"鸡产业指数-0.29%"},{"name":"钛白粉指数-0.63%","value":1377944775,"valuecolor":-0.627502753936141,"level":1,"color":"#EAFFEA","id":"钛白粉指数-0.63%"},{"name":"稀土指数-1.26%","value":5486518711,"valuecolor":-1.26450495188148,"level":1,"color":"#DBFFDB","id":"稀土指数-1.26%"},{"name":"液态金属指数-0.5%","value":1312918984,"valuecolor":-0.495808628580373,"level":1,"color":"#EFFFEF","id":"液态金属指数-0.5%"},{"name":"猪产业指数-0.27%","value":10105614480,"valuecolor":-0.268326333431949,"level":1,"color":"#F4FFF4","id":"猪产业指数-0.27%"}],"type":"treemap"}],"subtitle":{"text":"方块大小代表成交额"},"tooltip":{"enabled":true,"valueDecimals":2}},"theme":{"chart":{"backgroundColor":"transparent"}},"conf_opts":{"global":{"Date":null,"VMLRadialGradientURL":"http =//code.highcharts.com/list(version)/gfx/vml-radial-gradient.png","canvasToolsURL":"http =//code.highcharts.com/list(version)/modules/canvas-tools.js","getTimezoneOffset":null,"timezoneOffset":0,"useUTC":true},"lang":{"contextButtonTitle":"Chart context menu","decimalPoint":".","downloadJPEG":"Download JPEG image","downloadPDF":"Download PDF document","downloadPNG":"Download PNG image","downloadSVG":"Download SVG vector image","drillUpText":"Back to {series.name}","invalidDate":null,"loading":"Loading...","months":["January","February","March","April","May","June","July","August","September","October","November","December"],"noData":"No data to display","numericSymbols":["k","M","G","T","P","E"],"printChart":"Print chart","resetZoom":"Reset zoom","resetZoomTitle":"Reset zoom level 1:1","shortMonths":["Jan","Feb","Mar","Apr","May","Jun","Jul","Aug","Sep","Oct","Nov","Dec"],"thousandsSep":" ","weekdays":["Sunday","Monday","Tuesday","Wednesday","Thursday","Friday","Saturday"]}},"type":"chart","fonts":[],"debug":false},"evals":[],"jsHooks":[]}</script>
+<script type="application/htmlwidget-sizing" data-for="htmlwidget-bd092ddae7835459c307">{"viewer":{"width":"100%","height":350,"padding":0,"fill":false},"browser":{"width":"100%","height":500,"padding":0,"fill":false}}</script>
 </body>
 </html>

diff --git a/market_ashare_files/figure-html/widgets/widget_unnamed-chunk-10.html b/market_ashare_files/figure-html/widgets/widget_unnamed-chunk-10.html
@@ -49,12 +49,12 @@
 </head>
 <body style="background-color:white;">
 <div id="htmlwidget_container">
-  <div id="htmlwidget-c1b4072eaf0be656142a" style="width:100%;height:500px;" class="highchart html-widget"></div>
+  <div id="htmlwidget-3131d063132116ebff06" style="width:100%;height:500px;" class="highchart html-widget"></div>
   <script>HTMLWidgets.pymChild = new pym.Child();HTMLWidgets.addPostRenderHandler(function(){
                                 setTimeout(function(){HTMLWidgets.pymChild.sendHeight();},100);
                             });</script>
 </div>
-<script type="application/json" data-for="htmlwidget-c1b4072eaf0be656142a">{"x":{"hc_opts":{"title":{"text":"2019-06-12涨幅前10概念板块"},"yAxis":{"title":{"text":null}},"credits":{"enabled":true,"text":"Smartashare.com","href":"http://www.smartashare.com"},"exporting":{"enabled":true},"plotOptions":{"series":{"label":{"enabled":false},"turboThreshold":0},"treemap":{"layoutAlgorithm":"squarified"}},"series":[{"data":[{"name":"打板指数1.91%","value":68746009292,"valuecolor":1.91105946118408,"level":1,"color":"#FFD1D1","id":"打板指数1.91%"},{"name":"大豆指数2.86%","value":4199437753,"valuecolor":2.86440656349154,"level":1,"color":"#FFB7B7","id":"大豆指数2.86%"},{"name":"反关税指数2.24%","value":17446677433,"valuecolor":2.23845677320108,"level":1,"color":"#FFC6C6","id":"反关税指数2.24%"},{"name":"黄金珠宝指数3.96%","value":12071166593,"valuecolor":3.9637117456442,"level":1,"color":"#FF9E9E","id":"黄金珠宝指数3.96%"},{"name":"集成电路指数1.51%","value":23684616482,"valuecolor":1.51260795713265,"level":1,"color":"#FFDBDB","id":"集成电路指数1.51%"},{"name":"棉花指数3.56%","value":3485337993,"valuecolor":3.55625982489802,"level":1,"color":"#FFA8A8","id":"棉花指数3.56%"},{"name":"生物育种指数3.28%","value":9826716222,"valuecolor":3.27530385270207,"level":1,"color":"#FFADAD","id":"生物育种指数3.28%"},{"name":"稀土指数2.58%","value":14719216904,"valuecolor":2.57958486238001,"level":1,"color":"#FFC1C1","id":"稀土指数2.58%"},{"name":"液态金属指数2.52%","value":1864210863,"valuecolor":2.52167160232687,"level":1,"color":"#FFC1C1","id":"液态金属指数2.52%"},{"name":"一号文件概念指数1.63%","value":9059110868,"valuecolor":1.63053765752774,"level":1,"color":"#FFD6D6","id":"一号文件概念指数1.63%"}],"type":"treemap"}],"subtitle":{"text":"方块大小代表成交额"},"tooltip":{"enabled":true,"valueDecimals":2}},"theme":{"chart":{"backgroundColor":"transparent"}},"conf_opts":{"global":{"Date":null,"VMLRadialGradientURL":"http =//code.highcharts.com/list(version)/gfx/vml-radial-gradient.png","canvasToolsURL":"http =//code.highcharts.com/list(version)/modules/canvas-tools.js","getTimezoneOffset":null,"timezoneOffset":0,"useUTC":true},"lang":{"contextButtonTitle":"Chart context menu","decimalPoint":".","downloadJPEG":"Download JPEG image","downloadPDF":"Download PDF document","downloadPNG":"Download PNG image","downloadSVG":"Download SVG vector image","drillUpText":"Back to {series.name}","invalidDate":null,"loading":"Loading...","months":["January","February","March","April","May","June","July","August","September","October","November","December"],"noData":"No data to display","numericSymbols":["k","M","G","T","P","E"],"printChart":"Print chart","resetZoom":"Reset zoom","resetZoomTitle":"Reset zoom level 1:1","shortMonths":["Jan","Feb","Mar","Apr","May","Jun","Jul","Aug","Sep","Oct","Nov","Dec"],"thousandsSep":" ","weekdays":["Sunday","Monday","Tuesday","Wednesday","Thursday","Friday","Saturday"]}},"type":"chart","fonts":[],"debug":false},"evals":[],"jsHooks":[]}</script>
-<script type="application/htmlwidget-sizing" data-for="htmlwidget-c1b4072eaf0be656142a">{"viewer":{"width":"100%","height":350,"padding":0,"fill":false},"browser":{"width":"100%","height":500,"padding":0,"fill":false}}</script>
+<script type="application/json" data-for="htmlwidget-3131d063132116ebff06">{"x":{"hc_opts":{"title":{"text":"2019-06-19涨幅前10概念板块"},"yAxis":{"title":{"text":null}},"credits":{"enabled":true,"text":"Smartashare.com","href":"http://www.smartashare.com"},"exporting":{"enabled":true},"plotOptions":{"series":{"label":{"enabled":false},"turboThreshold":0},"treemap":{"layoutAlgorithm":"squarified"}},"series":[{"data":[{"name":"PM2.5指数3.2%","value":1496750698,"valuecolor":3.1967907783204,"level":1,"color":"#FFB2B2","id":"pm2.5指数3.2%"},{"name":"次新股指数3.05%","value":26267766991,"valuecolor":3.04825094693654,"level":1,"color":"#FFB2B2","id":"次新股指数3.05%"},{"name":"打板指数4.27%","value":15168518915,"valuecolor":4.26935385290914,"level":1,"color":"#FF9393","id":"打板指数4.27%"},{"name":"电路板指数3.37%","value":8037923115,"valuecolor":3.36789588554828,"level":1,"color":"#FFADAD","id":"电路板指数3.37%"},{"name":"覆铜板指数3.21%","value":1093210063,"valuecolor":3.20685765590143,"level":1,"color":"#FFADAD","id":"覆铜板指数3.21%"},{"name":"环保概念指数3.3%","value":5432107041,"valuecolor":3.29866182996734,"level":1,"color":"#FFADAD","id":"环保概念指数3.3%"},{"name":"近端次新股指数3.94%","value":11487571396,"valuecolor":3.93668269198639,"level":1,"color":"#FF9E9E","id":"近端次新股指数3.94%"},{"name":"垃圾发电指数4.08%","value":2390895058,"valuecolor":4.08406295007791,"level":1,"color":"#FF9898","id":"垃圾发电指数4.08%"},{"name":"长江经济带指数3.09%","value":1181698019,"valuecolor":3.08812497006749,"level":1,"color":"#FFB2B2","id":"长江经济带指数3.09%"},{"name":"知识产权指数4.06%","value":5216819754,"valuecolor":4.06020969492099,"level":1,"color":"#FF9898","id":"知识产权指数4.06%"}],"type":"treemap"}],"subtitle":{"text":"方块大小代表成交额"},"tooltip":{"enabled":true,"valueDecimals":2}},"theme":{"chart":{"backgroundColor":"transparent"}},"conf_opts":{"global":{"Date":null,"VMLRadialGradientURL":"http =//code.highcharts.com/list(version)/gfx/vml-radial-gradient.png","canvasToolsURL":"http =//code.highcharts.com/list(version)/modules/canvas-tools.js","getTimezoneOffset":null,"timezoneOffset":0,"useUTC":true},"lang":{"contextButtonTitle":"Chart context menu","decimalPoint":".","downloadJPEG":"Download JPEG image","downloadPDF":"Download PDF document","downloadPNG":"Download PNG image","downloadSVG":"Download SVG vector image","drillUpText":"Back to {series.name}","invalidDate":null,"loading":"Loading...","months":["January","February","March","April","May","June","July","August","September","October","November","December"],"noData":"No data to display","numericSymbols":["k","M","G","T","P","E"],"printChart":"Print chart","resetZoom":"Reset zoom","resetZoomTitle":"Reset zoom level 1:1","shortMonths":["Jan","Feb","Mar","Apr","May","Jun","Jul","Aug","Sep","Oct","Nov","Dec"],"thousandsSep":" ","weekdays":["Sunday","Monday","Tuesday","Wednesday","Thursday","Friday","Saturday"]}},"type":"chart","fonts":[],"debug":false},"evals":[],"jsHooks":[]}</script>
+<script type="application/htmlwidget-sizing" data-for="htmlwidget-3131d063132116ebff06">{"viewer":{"width":"100%","height":350,"padding":0,"fill":false},"browser":{"width":"100%","height":500,"padding":0,"fill":false}}</script>
 </body>
 </html>

diff --git a/market_ashare.html b/market_ashare.html
@@ -303,26 +303,26 @@ if (window.hljs) {
 </div>
 <div class="row">
 <div class="col-md-4">
-<div id="htmlwidget-580c7e742c47054c09cf" style="width:100%;height:350px;" class="widgetframe html-widget"></div>
-<script type="application/json" data-for="htmlwidget-580c7e742c47054c09cf">{"x":{"url":"market_ashare_files/figure-html//widgets/widget_unnamed-chunk-4.html","options":{"xdomain":"*","allowfullscreen":false,"lazyload":false}},"evals":[],"jsHooks":[]}</script>
+<div id="htmlwidget-0bd50675ef2394c02247" style="width:100%;height:350px;" class="widgetframe html-widget"></div>
+<script type="application/json" data-for="htmlwidget-0bd50675ef2394c02247">{"x":{"url":"market_ashare_files/figure-html//widgets/widget_unnamed-chunk-4.html","options":{"xdomain":"*","allowfullscreen":false,"lazyload":false}},"evals":[],"jsHooks":[]}</script>
 </div>
 <div class="col-md-8">
-<div id="htmlwidget-83b9bac844ca4280be28" style="width:100%;height:350px;" class="widgetframe html-widget"></div>
-<script type="application/json" data-for="htmlwidget-83b9bac844ca4280be28">{"x":{"url":"market_ashare_files/figure-html//widgets/widget_unnamed-chunk-5.html","options":{"xdomain":"*","allowfullscreen":false,"lazyload":false}},"evals":[],"jsHooks":[]}</script>
+<div id="htmlwidget-06bb33c2a44bf98a8214" style="width:100%;height:350px;" class="widgetframe html-widget"></div>
+<script type="application/json" data-for="htmlwidget-06bb33c2a44bf98a8214">{"x":{"url":"market_ashare_files/figure-html//widgets/widget_unnamed-chunk-5.html","options":{"xdomain":"*","allowfullscreen":false,"lazyload":false}},"evals":[],"jsHooks":[]}</script>
 </div>
 <div class="col-sm-6 col-xs-12">
-<div id="htmlwidget-30dac0385768663d47cc" style="width:100%;height:650px;" class="widgetframe html-widget"></div>
-<script type="application/json" data-for="htmlwidget-30dac0385768663d47cc">{"x":{"url":"market_ashare_files/figure-html//widgets/widget_unnamed-chunk-7.html","options":{"xdomain":"*","allowfullscreen":false,"lazyload":false}},"evals":[],"jsHooks":[]}</script>
+<div id="htmlwidget-1b71b4e852e74e8cd156" style="width:100%;height:650px;" class="widgetframe html-widget"></div>
+<script type="application/json" data-for="htmlwidget-1b71b4e852e74e8cd156">{"x":{"url":"market_ashare_files/figure-html//widgets/widget_unnamed-chunk-7.html","options":{"xdomain":"*","allowfullscreen":false,"lazyload":false}},"evals":[],"jsHooks":[]}</script>
 </div>
 </div>
 <div class="row">
 <div class="col-md-6">
-<div id="htmlwidget-ada194d3644251ff23a0" style="width:100%;height:480px;" class="widgetframe html-widget"></div>
-<script type="application/json" data-for="htmlwidget-ada194d3644251ff23a0">{"x":{"url":"market_ashare_files/figure-html//widgets/widget_unnamed-chunk-10.html","options":{"xdomain":"*","allowfullscreen":false,"lazyload":false}},"evals":[],"jsHooks":[]}</script>
+<div id="htmlwidget-d28892b9ec1366350faa" style="width:100%;height:480px;" class="widgetframe html-widget"></div>
+<script type="application/json" data-for="htmlwidget-d28892b9ec1366350faa">{"x":{"url":"market_ashare_files/figure-html//widgets/widget_unnamed-chunk-10.html","options":{"xdomain":"*","allowfullscreen":false,"lazyload":false}},"evals":[],"jsHooks":[]}</script>
 </div>
 <div class="col-md-6">
-<div id="htmlwidget-f5a237cb6ff62b33e8a0" style="width:100%;height:480px;" class="widgetframe html-widget"></div>
-<script type="application/json" data-for="htmlwidget-f5a237cb6ff62b33e8a0">{"x":{"url":"market_ashare_files/figure-html//widgets/widget_unnamed-chunk-11.html","options":{"xdomain":"*","allowfullscreen":false,"lazyload":false}},"evals":[],"jsHooks":[]}</script>
+<div id="htmlwidget-a847d977eb72e7e7e942" style="width:100%;height:480px;" class="widgetframe html-widget"></div>
+<script type="application/json" data-for="htmlwidget-a847d977eb72e7e7e942">{"x":{"url":"market_ashare_files/figure-html//widgets/widget_unnamed-chunk-11.html","options":{"xdomain":"*","allowfullscreen":false,"lazyload":false}},"evals":[],"jsHooks":[]}</script>
 </div>
 </div>
 </div>
